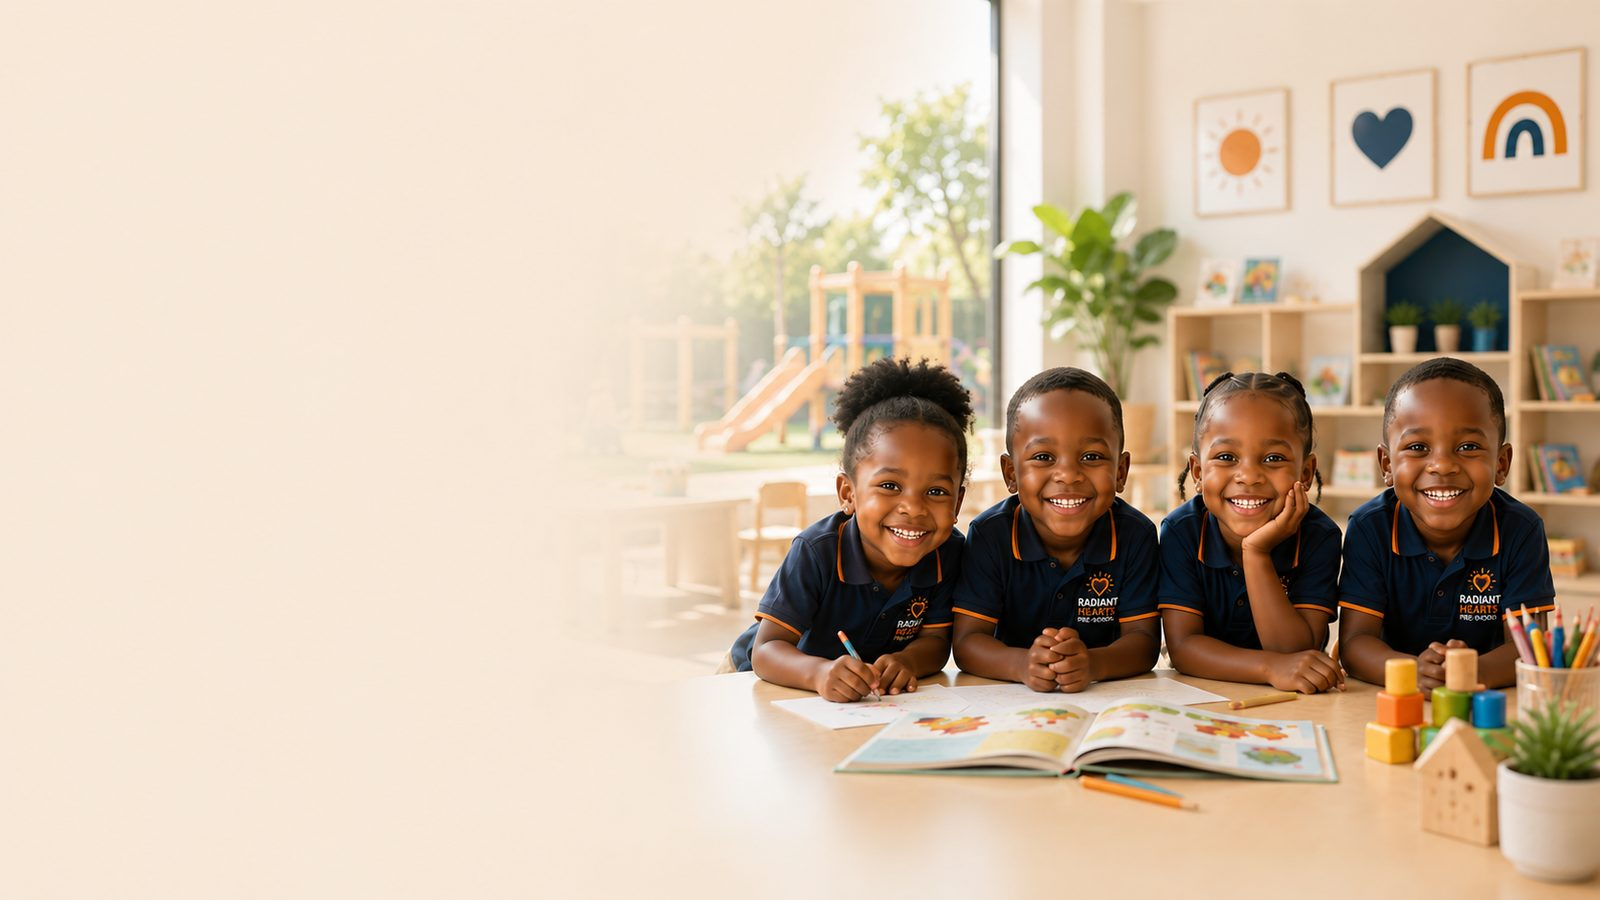
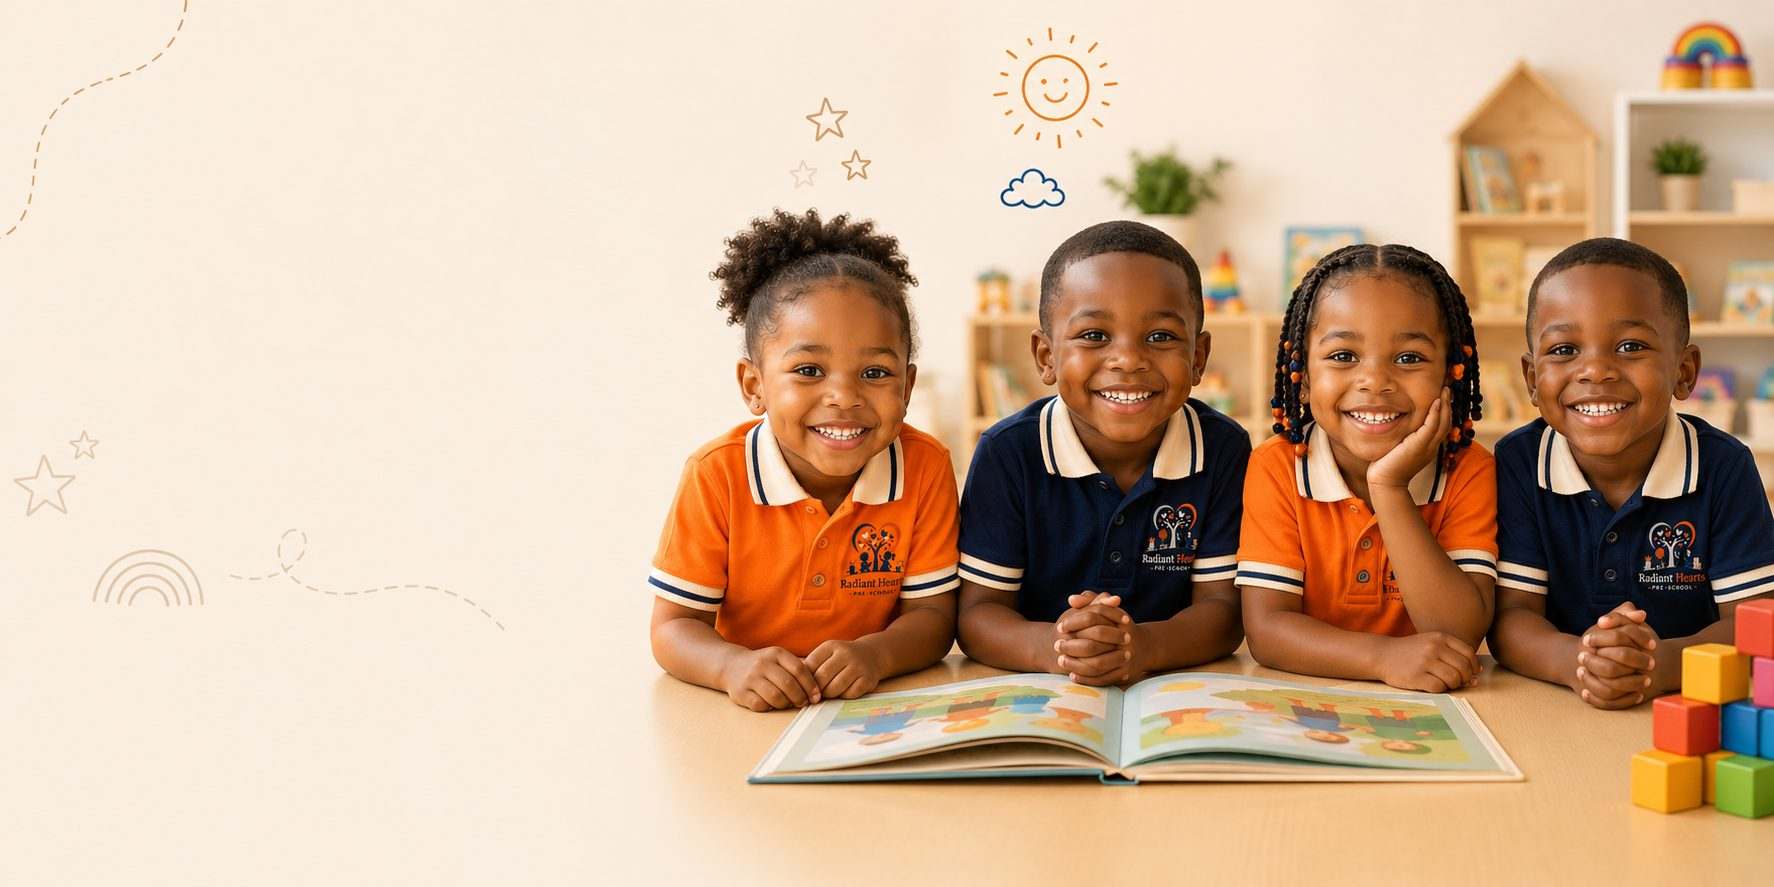
Update hero and programme card photography
- New hero cover image
- Baby Class (9-18 months) and Pre-Nursery (3-4 years) card images
- Compressed to web sizes (6.4MB of PNGs -> 0.59MB of JPEG);
  originals kept in _assets-archive/

diff --git a/index.html b/index.html
@@ -453,7 +453,7 @@
 <!-- Baby Class -->
 <div class="group clay-card p-2 hover:-translate-y-4 relative overflow-hidden">
 <div class="aspect-[4/3] rounded-[34px] overflow-hidden mb-8 relative">
-<img alt="Baby Class" class="w-full h-full object-cover group-hover:scale-105 smooth-transition" src="img/rh/image3.jpg"/>
+<img alt="Baby Class" class="w-full h-full object-cover group-hover:scale-105 smooth-transition" src="img/rh/baby-class.jpg"/>
 <div class="card-pink absolute inset-0 rounded-[34px] opacity-0 group-hover:opacity-40 smooth-transition"></div>
 </div>
 <div class="px-8 pb-10 space-y-4">
@@ -491,7 +491,7 @@
 <!-- Pre-Nursery -->
 <div class="group clay-card p-2 hover:-translate-y-4 relative overflow-hidden">
 <div class="aspect-[4/3] rounded-[34px] overflow-hidden mb-8 relative">
-<img alt="Pre-Nursery" class="w-full h-full object-cover group-hover:scale-105 smooth-transition" src="img/rh/image5.jpg"/>
+<img alt="Pre-Nursery" class="w-full h-full object-cover group-hover:scale-105 smooth-transition" src="img/rh/pre-nursery.jpg"/>
 <div class="card-cyan absolute inset-0 rounded-[34px] opacity-0 group-hover:opacity-40 smooth-transition"></div>
 </div>
 <div class="px-8 pb-10 space-y-4">
